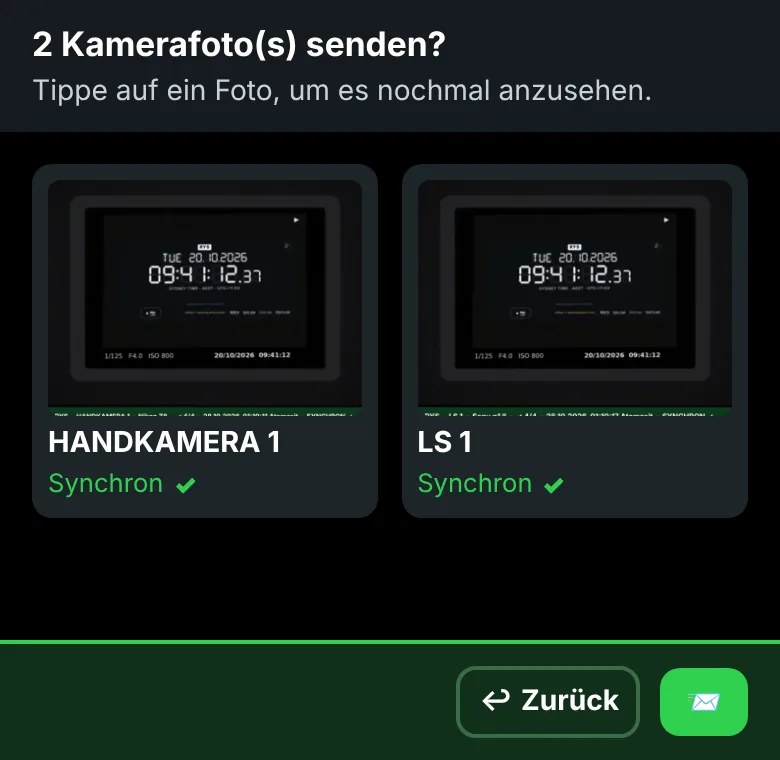
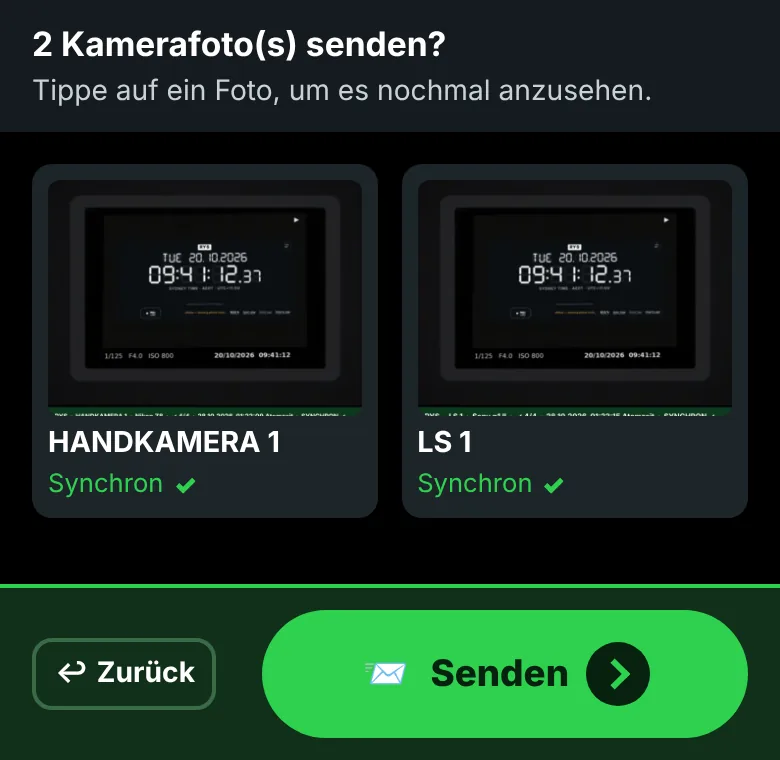
Send list: big '📨 Send' button with arrow
Claude-Session: https://claude.ai/code/session_01PWvFJNTaft5vB7ZZnHn1Wn

Changed region(s): [[0.0, 0.7566, 1.0, 0.9684]]

diff --git a/index.html b/index.html
@@ -2,7 +2,7 @@
 <html lang="en">
 <head>
 <meta charset="utf-8">
-<meta name="app-ver" content="20261027141027">
+<meta name="app-ver" content="20261027142234">
 <meta name="viewport" content="width=device-width,initial-scale=1,viewport-fit=cover">
 <title>Camera check/Atomic Clock by RYS</title>
 <meta name="description" content="All in one app: camera settings, atomic clock and camera photo sync. Directly send to your camera check group.">
@@ -587,6 +587,11 @@ body.photo .tapfinger{display:none}
 .pop.needtype #pBrands,.pop.needtype #recent,.pop.needtype #recentLabel{opacity:.35}
 .pop.needtype #pType button{border-color:var(--ok)}
 #pType.shake{animation:popShake .38s ease}
+/* Send button in the send list: big, with the word */
+#sGo{flex:1; display:inline-flex; align-items:center; justify-content:center; gap:.55rem; font-size:1.15rem; padding:1rem 1.2rem; border-radius:999px; margin-left:.8rem}
+#sGo .ga{flex-shrink:0; position:relative; width:2rem; height:2rem; border-radius:50%; background:#06210e}
+#sGo .ga::after{content:""; position:absolute; left:50%; top:50%; width:.5rem; height:.5rem; border:solid var(--ok); border-width:.19rem .19rem 0 0; transform:translate(-65%,-50%) rotate(45deg)}
+#sGo:disabled .ga{display:none}
 </style>
 </head>
 <body>
@@ -743,16 +748,16 @@ body.photo .tapfinger{display:none}
 <div id="guide" class="viewer guide" hidden role="dialog" aria-modal="true" aria-labelledby="gTitle">
   <div class="view-top g-top"><b id="gTitle">How to use</b><button id="gClose" class="g-close" type="button" aria-label="Close the guide">✕</button></div>
   <ol class="g-list">
-    <li class="g-step"><div class="g-num">1</div><div class="g-body"><p>Tap on <span class="gk w">✎</span> and add your initials.</p><img src="guide/1.webp?v=26" alt="" loading="lazy" width="300" height="70"></div></li>
-    <li class="g-step"><div class="g-num">2</div><div class="g-body"><p>The camera check opens by itself: pick <b>Hand cam</b> or <b>LS</b>, then the brand and model.</p><img src="guide/2.webp?v=26" alt="" loading="lazy" width="362" height="374"></div></li>
-    <li class="g-step"><div class="g-num">3</div><div class="g-body"><p>Check your settings: set each one on the camera, then tick it. The check can't be closed until all 4 are ticked.</p><img src="guide/3.webp?v=26" alt="" loading="lazy" width="354" height="373"></div></li>
-    <li class="g-step"><div class="g-num">4</div><div class="g-body"><p>Add additional cameras if needed with <span class="gk d">+ Add another camera</span>.</p><img src="guide/4.webp?v=26" alt="" loading="lazy" width="354" height="69"></div></li>
-    <li class="g-step"><div class="g-num">5</div><div class="g-body"><p>When all cameras are checked, tap <span class="gk g">📷→🕒 Shoot the clock</span>.</p><img src="guide/5.webp?v=26" alt="" loading="lazy" width="354" height="73"></div></li>
-    <li class="g-step"><div class="g-num">6</div><div class="g-body"><p>Shoot the clock with every camera.</p><img src="guide/6.webp?v=26" alt="" loading="lazy" width="390" height="305"></div></li>
-    <li class="g-step"><div class="g-num">7</div><div class="g-body"><p>Play back the clock shot on the camera, tap <span class="gk g">📱→📷</span> and photograph the camera's screen.</p><img src="guide/7.webp?v=26" alt="" loading="lazy" width="390" height="626"></div></li>
-    <li class="g-step"><div class="g-num">8</div><div class="g-body"><p>If the times match to the second, tap <span class="gk g">✓ In sync · next</span>. If not, fix the camera's clock, shoot the clock again and tap <b>📷 Retake</b>.</p><img src="guide/8.webp?v=26" alt="" loading="lazy" width="390" height="533"></div></li>
-    <li class="g-step"><div class="g-num">9</div><div class="g-body"><p>The phone camera opens straight away for the next camera's screen. Repeat for every camera.</p><img src="guide/9.webp?v=26" alt="" loading="lazy" width="390" height="520"></div></li>
-    <li class="g-step"><div class="g-num">10</div><div class="g-body"><p>After the last camera, <span class="gk g">✓ In sync · send photos</span> opens the send list: tap <span class="gk g">📨</span> and pick your group chat.</p><img src="guide/10.webp?v=26" alt="" loading="lazy" width="390" height="380"></div></li>
+    <li class="g-step"><div class="g-num">1</div><div class="g-body"><p>Tap on <span class="gk w">✎</span> and add your initials.</p><img src="guide/1.webp?v=27" alt="" loading="lazy" width="300" height="70"></div></li>
+    <li class="g-step"><div class="g-num">2</div><div class="g-body"><p>The camera check opens by itself: pick <b>Hand cam</b> or <b>LS</b>, then the brand and model.</p><img src="guide/2.webp?v=27" alt="" loading="lazy" width="362" height="374"></div></li>
+    <li class="g-step"><div class="g-num">3</div><div class="g-body"><p>Check your settings: set each one on the camera, then tick it. The check can't be closed until all 4 are ticked.</p><img src="guide/3.webp?v=27" alt="" loading="lazy" width="354" height="373"></div></li>
+    <li class="g-step"><div class="g-num">4</div><div class="g-body"><p>Add additional cameras if needed with <span class="gk d">+ Add another camera</span>.</p><img src="guide/4.webp?v=27" alt="" loading="lazy" width="354" height="69"></div></li>
+    <li class="g-step"><div class="g-num">5</div><div class="g-body"><p>When all cameras are checked, tap <span class="gk g">📷→🕒 Shoot the clock</span>.</p><img src="guide/5.webp?v=27" alt="" loading="lazy" width="354" height="73"></div></li>
+    <li class="g-step"><div class="g-num">6</div><div class="g-body"><p>Shoot the clock with every camera.</p><img src="guide/6.webp?v=27" alt="" loading="lazy" width="390" height="305"></div></li>
+    <li class="g-step"><div class="g-num">7</div><div class="g-body"><p>Play back the clock shot on the camera, tap <span class="gk g">📱→📷</span> and photograph the camera's screen.</p><img src="guide/7.webp?v=27" alt="" loading="lazy" width="390" height="626"></div></li>
+    <li class="g-step"><div class="g-num">8</div><div class="g-body"><p>If the times match to the second, tap <span class="gk g">✓ In sync · next</span>. If not, fix the camera's clock, shoot the clock again and tap <b>📷 Retake</b>.</p><img src="guide/8.webp?v=27" alt="" loading="lazy" width="390" height="533"></div></li>
+    <li class="g-step"><div class="g-num">9</div><div class="g-body"><p>The phone camera opens straight away for the next camera's screen. Repeat for every camera.</p><img src="guide/9.webp?v=27" alt="" loading="lazy" width="390" height="520"></div></li>
+    <li class="g-step"><div class="g-num">10</div><div class="g-body"><p>After the last camera, <span class="gk g">✓ In sync · send photos</span> opens the send list: tap <span class="gk g">📨 Send</span> and pick your group chat.</p><img src="guide/10.webp?v=27" alt="" loading="lazy" width="390" height="380"></div></li>
     <li class="g-step"><div class="g-num">⤓</div><div class="g-body"><b>Install the app</b><p>
       · <b>iPhone</b> (Safari): tap <b>Share</b> □↑ (on newer iOS it's under <b>⋯</b>), then <b>Add to Home Screen</b> → <b>Add</b>.<br>
       · <b>Android</b> (Chrome): tap <b>⋮</b> top right, then <b>Add to home screen</b> → <b>Install</b>.</p></div></li>
@@ -798,7 +803,7 @@ var DE = {
   "Open the camera box": "Kamerabox öffnen", "Tap or slide down to put the camera box away": "Tippen oder nach unten wischen, um die Kamerabox zu schließen",
   "Slide down to close": "Zum Schließen nach unten wischen", "Back": "Zurück", "Camera type": "Kameratyp", "My cameras": "Meine Kameras",
   "Recently used cameras": "Zuletzt verwendete Kameras", "Photo of the camera back": "Foto vom Kameradisplay", "Take photo": "Foto aufnehmen",
-  "Camera-back photo": "Foto vom Kameradisplay", "Close the guide": "Anleitung schließen", "Shoot the clock": "Uhr fotografieren", "In sync · send photos": "Synchron · Fotos senden", "Clock shot": "Uhr fotografiert", "Send photos": "Fotos senden", "Get missing photo": "Fehlendes Foto holen", "Get missing photos": "Fehlende Fotos holen", "Finish the camera check first": "Erst den Kamera-Check abschließen", "First pick Hand cam or LS": "Zuerst Handkamera oder LS wählen", "Add camera": "Kamera hinzufügen", "Copy link": "Link kopieren",
+  "Camera-back photo": "Foto vom Kameradisplay", "Close the guide": "Anleitung schließen", "Shoot the clock": "Uhr fotografieren", "Send": "Senden", "In sync · send photos": "Synchron · Fotos senden", "Clock shot": "Uhr fotografiert", "Send photos": "Fotos senden", "Get missing photo": "Fehlendes Foto holen", "Get missing photos": "Fehlende Fotos holen", "Finish the camera check first": "Erst den Kamera-Check abschließen", "First pick Hand cam or LS": "Zuerst Handkamera oder LS wählen", "Add camera": "Kamera hinzufügen", "Copy link": "Link kopieren",
   // camera check
   "Brand": "Marke", "Model": "Modell", "Check": "Prüfen", "Brand…": "Marke…", "Model…": "Modell…", "Quick pick": "Schnellwahl",
   "Hand cam": "Handkamera", "Other brand": "Andere Marke", "Other brand / not listed": "Andere Marke / nicht gelistet",
@@ -2923,7 +2928,7 @@ function trNode(n){
       document.getElementById("sTitle").textContent = "Send " + n + " camera photo" + (n === 1 ? "" : "s") + "?";
       document.getElementById("sSub").textContent = "Tap a photo to look again." + (bad ? " " + bad + " not confirmed in sync." : "");
       warn.hidden = true;
-      sGo.textContent = "📨"; sGo.disabled = !n;
+      setGo(sGo, ["📨", null, "Send"]); sGo.disabled = !n;
     }
     sendView.hidden = false; sGo.focus();
   }
@@ -3243,16 +3248,16 @@ function trNode(n){
       navigator.serviceWorker.register('./sw.js');
     }
     var GUIDE_DE = `
-    <li class="g-step"><div class="g-num">1</div><div class="g-body"><p>Tippe auf <span class="gk w">✎</span> und gib dein Kürzel ein.</p><img src="guide/de/1.webp?v=26" alt="" loading="lazy" width="300" height="70"></div></li>
-    <li class="g-step"><div class="g-num">2</div><div class="g-body"><p>Der Kamera-Check öffnet sich von selbst: Wähle <b>Handkamera</b> oder <b>LS</b>, dann Marke und Modell.</p><img src="guide/de/2.webp?v=26" alt="" loading="lazy" width="362" height="374"></div></li>
-    <li class="g-step"><div class="g-num">3</div><div class="g-body"><p>Prüfe deine Einstellungen: Stelle jede an der Kamera ein und hake sie dann ab. Der Check lässt sich erst schließen, wenn alle 4 abgehakt sind.</p><img src="guide/de/3.webp?v=26" alt="" loading="lazy" width="354" height="373"></div></li>
-    <li class="g-step"><div class="g-num">4</div><div class="g-body"><p>Füge bei Bedarf weitere Kameras hinzu mit <span class="gk d">+ Weitere Kamera hinzufügen</span>.</p><img src="guide/de/4.webp?v=26" alt="" loading="lazy" width="354" height="69"></div></li>
-    <li class="g-step"><div class="g-num">5</div><div class="g-body"><p>Wenn alle Kameras geprüft sind, tippe auf <span class="gk g">📷→🕒 Uhr fotografieren</span>.</p><img src="guide/de/5.webp?v=26" alt="" loading="lazy" width="354" height="73"></div></li>
-    <li class="g-step"><div class="g-num">6</div><div class="g-body"><p>Fotografiere die Uhr mit jeder Kamera.</p><img src="guide/de/6.webp?v=26" alt="" loading="lazy" width="390" height="305"></div></li>
-    <li class="g-step"><div class="g-num">7</div><div class="g-body"><p>Spiele die Aufnahme der Uhr an der Kamera ab, tippe auf <span class="gk g">📱→📷</span> und fotografiere das Kameradisplay.</p><img src="guide/de/7.webp?v=26" alt="" loading="lazy" width="390" height="626"></div></li>
-    <li class="g-step"><div class="g-num">8</div><div class="g-body"><p>Stimmen die Zeiten auf die Sekunde überein, tippe auf <span class="gk g">✓ Synchron · weiter</span>. Wenn nicht, stelle die Kamerauhr richtig, fotografiere die Uhr erneut und tippe auf <b>📷 Neu aufnehmen</b>.</p><img src="guide/de/8.webp?v=26" alt="" loading="lazy" width="390" height="533"></div></li>
-    <li class="g-step"><div class="g-num">9</div><div class="g-body"><p>Die Handykamera öffnet sich direkt für das Display der nächsten Kamera. Wiederhole das für jede Kamera.</p><img src="guide/de/9.webp?v=26" alt="" loading="lazy" width="390" height="520"></div></li>
-    <li class="g-step"><div class="g-num">10</div><div class="g-body"><p>Nach der letzten Kamera öffnet <span class="gk g">✓ Synchron · Fotos senden</span> die Sendeliste: Tippe auf <span class="gk g">📨</span> und wähle deinen Gruppenchat.</p><img src="guide/de/10.webp?v=26" alt="" loading="lazy" width="390" height="380"></div></li>
+    <li class="g-step"><div class="g-num">1</div><div class="g-body"><p>Tippe auf <span class="gk w">✎</span> und gib dein Kürzel ein.</p><img src="guide/de/1.webp?v=27" alt="" loading="lazy" width="300" height="70"></div></li>
+    <li class="g-step"><div class="g-num">2</div><div class="g-body"><p>Der Kamera-Check öffnet sich von selbst: Wähle <b>Handkamera</b> oder <b>LS</b>, dann Marke und Modell.</p><img src="guide/de/2.webp?v=27" alt="" loading="lazy" width="362" height="374"></div></li>
+    <li class="g-step"><div class="g-num">3</div><div class="g-body"><p>Prüfe deine Einstellungen: Stelle jede an der Kamera ein und hake sie dann ab. Der Check lässt sich erst schließen, wenn alle 4 abgehakt sind.</p><img src="guide/de/3.webp?v=27" alt="" loading="lazy" width="354" height="373"></div></li>
+    <li class="g-step"><div class="g-num">4</div><div class="g-body"><p>Füge bei Bedarf weitere Kameras hinzu mit <span class="gk d">+ Weitere Kamera hinzufügen</span>.</p><img src="guide/de/4.webp?v=27" alt="" loading="lazy" width="354" height="69"></div></li>
+    <li class="g-step"><div class="g-num">5</div><div class="g-body"><p>Wenn alle Kameras geprüft sind, tippe auf <span class="gk g">📷→🕒 Uhr fotografieren</span>.</p><img src="guide/de/5.webp?v=27" alt="" loading="lazy" width="354" height="73"></div></li>
+    <li class="g-step"><div class="g-num">6</div><div class="g-body"><p>Fotografiere die Uhr mit jeder Kamera.</p><img src="guide/de/6.webp?v=27" alt="" loading="lazy" width="390" height="305"></div></li>
+    <li class="g-step"><div class="g-num">7</div><div class="g-body"><p>Spiele die Aufnahme der Uhr an der Kamera ab, tippe auf <span class="gk g">📱→📷</span> und fotografiere das Kameradisplay.</p><img src="guide/de/7.webp?v=27" alt="" loading="lazy" width="390" height="626"></div></li>
+    <li class="g-step"><div class="g-num">8</div><div class="g-body"><p>Stimmen die Zeiten auf die Sekunde überein, tippe auf <span class="gk g">✓ Synchron · weiter</span>. Wenn nicht, stelle die Kamerauhr richtig, fotografiere die Uhr erneut und tippe auf <b>📷 Neu aufnehmen</b>.</p><img src="guide/de/8.webp?v=27" alt="" loading="lazy" width="390" height="533"></div></li>
+    <li class="g-step"><div class="g-num">9</div><div class="g-body"><p>Die Handykamera öffnet sich direkt für das Display der nächsten Kamera. Wiederhole das für jede Kamera.</p><img src="guide/de/9.webp?v=27" alt="" loading="lazy" width="390" height="520"></div></li>
+    <li class="g-step"><div class="g-num">10</div><div class="g-body"><p>Nach der letzten Kamera öffnet <span class="gk g">✓ Synchron · Fotos senden</span> die Sendeliste: Tippe auf <span class="gk g">📨 Senden</span> und wähle deinen Gruppenchat.</p><img src="guide/de/10.webp?v=27" alt="" loading="lazy" width="390" height="380"></div></li>
     <li class="g-step"><div class="g-num">⤓</div><div class="g-body"><b>App installieren</b><p>
       · <b>iPhone</b> (Safari): Tippe auf <b>Teilen</b> □↑ (bei neuerem iOS unter <b>⋯</b>), dann <b>Zum Home-Bildschirm</b> → <b>Hinzufügen</b>.<br>
       · <b>Android</b> (Chrome): Tippe oben rechts auf <b>⋮</b>, dann <b>Zum Startbildschirm hinzufügen</b> → <b>Installieren</b>.</p></div></li>
